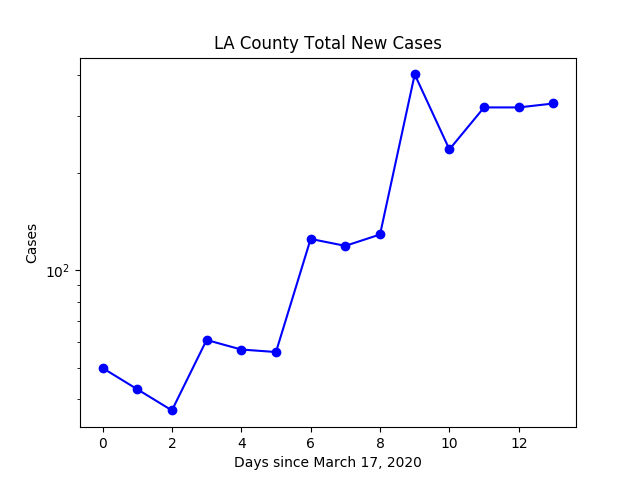
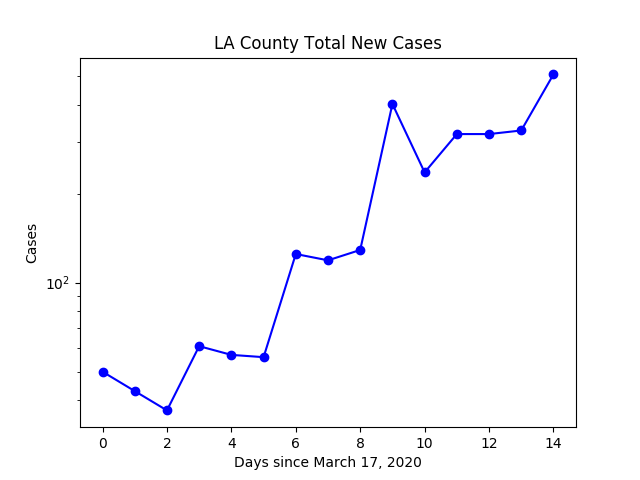
plots updated with new data

diff --git a/scripts/plot_cases.py b/scripts/plot_cases.py
@@ -116,15 +116,15 @@ def main(top_i_comm, type_plot,Today_date):
 				top_i_comm -= 1
 		plt.legend()
 		plt.xlabel('Days since March 16, 2020')
-		plt.ylabel('Cases')
+		plt.ylabel('Cases/population (Case Density)')
 		plt.grid(True)
 		# plt.yscale('log')
-		#plt.title(type_plot)
+		plt.title('Case Density')
 		plt.show()		
 		
 if __name__ == "__main__":
-	top_k_community_with_highest_confirmed = 6
+	top_k_community_with_highest_confirmed = 5
 	# Display mode: daily or cumulative
 	display_mode = 'cumulative'
-	number_of_days_passed_from_16th = 13
+	number_of_days_passed_from_16th = 14
 	main(top_k_community_with_highest_confirmed,display_mode, 16 + number_of_days_passed_from_16th)		

diff --git a/scripts/plot_cases_daily.py b/scripts/plot_cases_daily.py
@@ -100,9 +100,9 @@ def main(top_i_comm, type_plot,Today_date):
 		plt.legend()
 		plt.xlabel('Days since March 16, 2020')
 		plt.ylabel('Cases')
-		#plt.yscale('log')
+		plt.yscale('log')
 		plt.grid(True)
-		plt.title(type_plot)
+		plt.title("Cases reported for top 6 communities")
 		plt.show()		
 	
 
@@ -110,5 +110,5 @@ if __name__ == "__main__":
 	top_k_community_with_highest_confirmed = 6
 	# Display mode: daily or cumulative
 	display_mode = 'daily'
-	number_of_days_passed_from_16th = 15
+	number_of_days_passed_from_16th = 16
 	main(top_k_community_with_highest_confirmed,display_mode, 16 + number_of_days_passed_from_16th)		

diff --git a/scripts/plot_density.py b/scripts/plot_density.py
@@ -130,12 +130,12 @@ def main(top_i_comm, type_plot,Today_date):
 		plt.ylabel('Cases/population (Case Density)')
 		plt.grid(True)
 		# plt.yscale('log')
-		plt.title('Case Density')
+		plt.title('Case Density for Top 6 Communities')
 		plt.show()		
 		
 if __name__ == "__main__":
-	top_k_community_with_highest_confirmed = 5
+	top_k_community_with_highest_confirmed = 6
 	# Display mode: daily or cumulative
 	display_mode = 'cumulative'
-	number_of_days_passed_from_16th = 14
+	number_of_days_passed_from_16th = 16
 	main(top_k_community_with_highest_confirmed,display_mode, 16 + number_of_days_passed_from_16th)		
